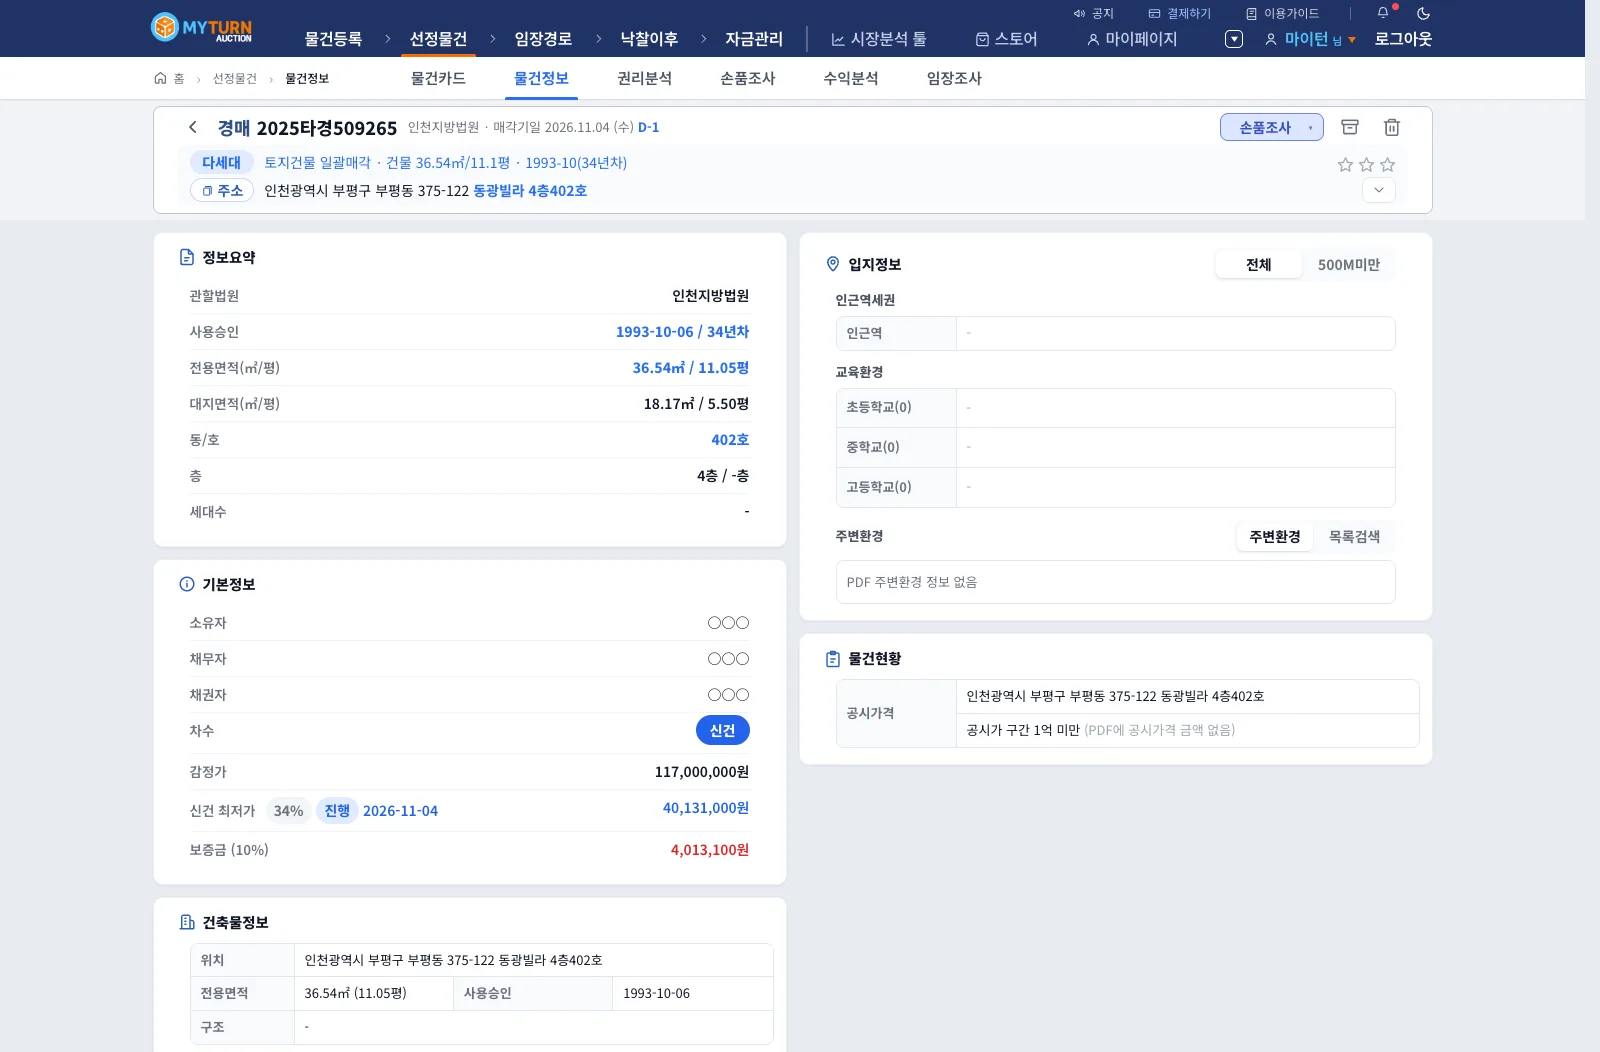
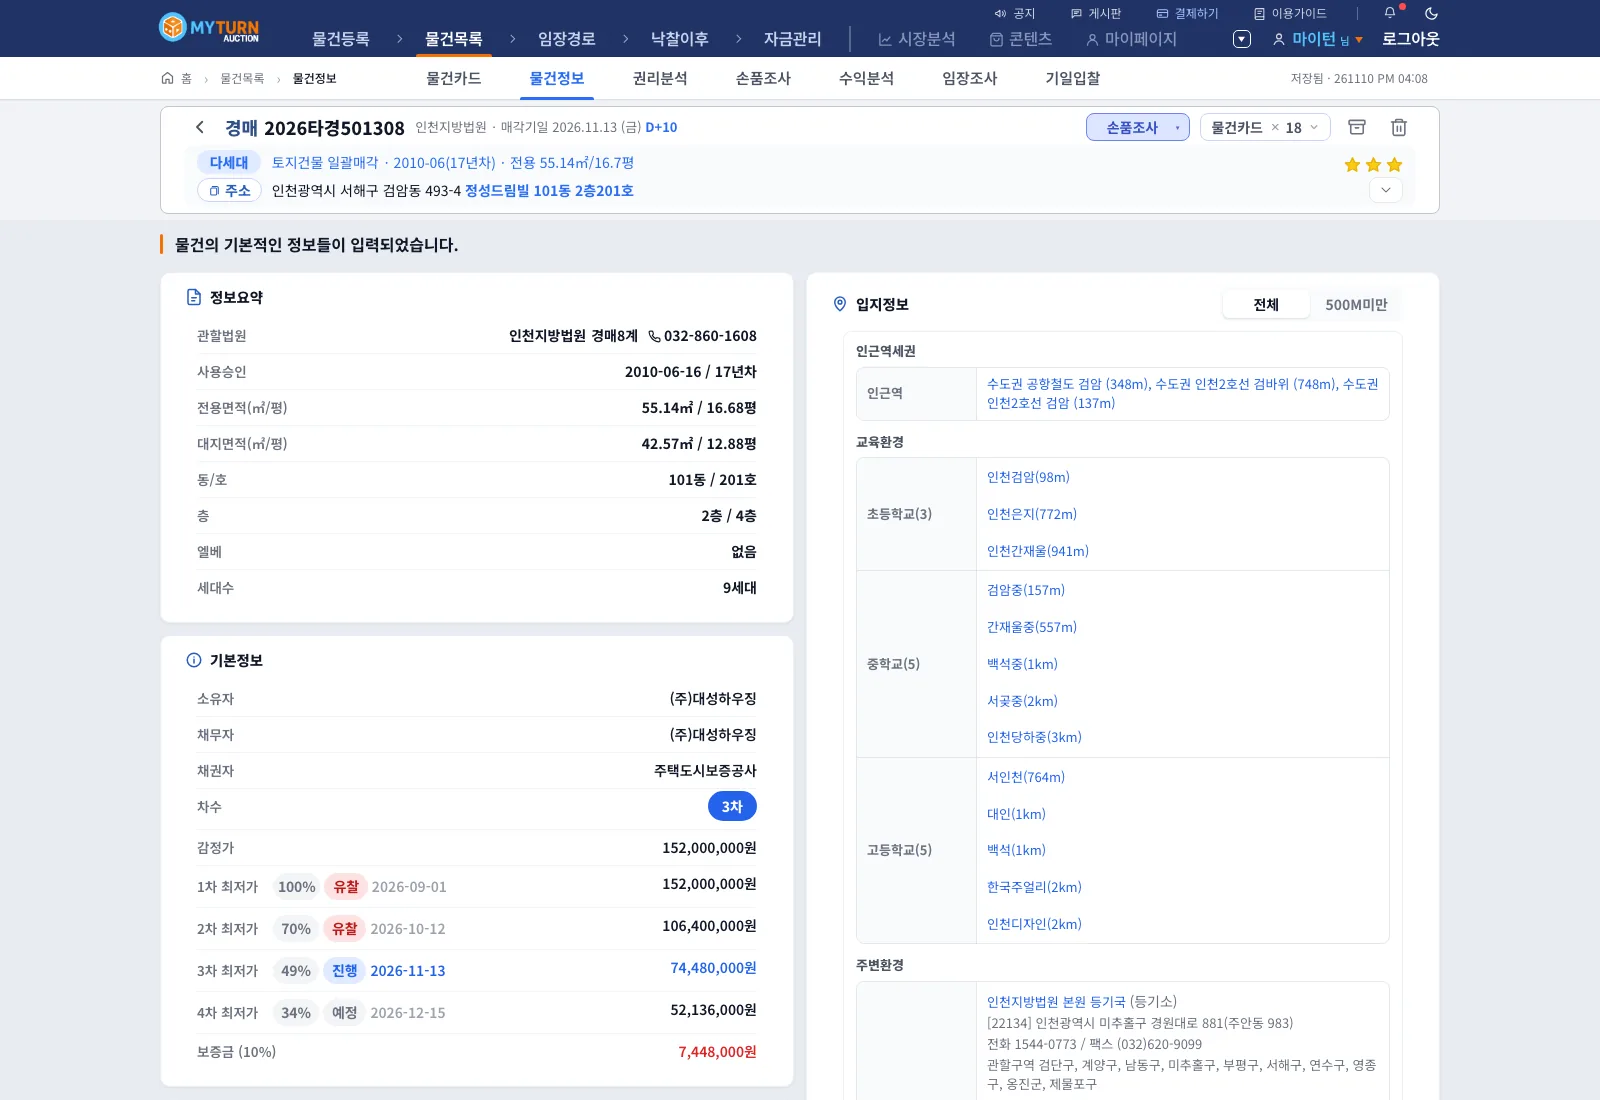
이용가이드 v1.8.1 페이지안내 화면 그림 — 화면 공통 구성 · 물건목록 · 물건정보 다시 찍고 손품조사 · 수익분석 · 임장조사 · 기일입찰 · 임장경로 · 낙찰이후(절차별체크) · 자금관리 · 시장분석 새로. 실계정 읽기만(쓰기 요청 막음), 운영 단추 · 칩 · 손품결론 가림, 기일입찰 이름 · 전화 · 주소와 임장경로 출발 · 도착지 ○○로 가림. 물건목록 · 물건정보 그림 위 번호는 배치가 바뀌어 뺌, 바로가기 설명에 게시판

diff --git a/public/guide/index.html b/public/guide/index.html
@@ -1672,6 +1672,36 @@ GUIDE.release({
     ] });
   },
 });
+/* v1.8.1 — 2026.11.23 페이지안내 화면 그림 — 화면 공통 구성 · 물건목록 · 물건정보는 오늘 화면으로 다시, 손품조사 · 수익분석 · 임장조사 · 기일입찰 · 임장경로 · 낙찰이후 · 자금관리 · 시장분석은 새로.
+   실계정(정성드림빌)을 읽기만 해서 찍음 — 운영 단추 · 운영 칩 · 손품결론은 가리고, 기일입찰 서류의 이름 · 전화 · 주소와 임장경로 출발 · 도착지는 ○○로 가림.
+   배치가 바뀌어 물건목록 · 물건정보의 그림 위 번호는 뺐다(설명 번호는 그대로) */
+GUIDE.release({
+  v: '1.8.1', date: '2026-11-23', base: '1.8.0', title: '페이지안내 화면 그림',
+  notes: ['페이지안내 — 화면 공통 구성 · 물건목록 · 물건정보 그림을 오늘 화면으로 바꾸고, 손품조사 · 수익분석 · 임장조사 · 기일입찰 · 임장경로 · 낙찰이후 · 자금관리 · 시장분석에 화면 그림을 넣었습니다'],
+  patch(c) {
+    const U = 'terryauction-6b374.web.app/web#/';
+    const add = (k, h, url, alt) => { c.shots[k] = { src: `shot-${k}.webp?v=4`, w: 1600, h, url: U + url, alt }; };
+    add('layout', 330, 'market/dong', '화면 공통 구성 — 남색 머리띠(상단 메뉴 · 바로가기 · 내 계정), 흰 띠(경로 · 하위 탭), 그 아래 박스 탭');
+    add('list', 1052, 'list', '물건목록 · 물건카드 화면 — 도구 줄, 단계별 물건 수, 물건 카드와 분석 진행 · 수익률 분석');
+    add('basic', 1100, 'item/…/basic', '물건상세 · 물건정보 화면 — 사건 카드, 정보요약, 기본정보, 입지정보');
+    add('survey', 1300, 'item/…/survey', '물건상세 · 손품조사 화면 — 매매수요 · 시세분석 탭, 실사용자 · 빌라 입지비교 지도');
+    add('profit', 1200, 'item/…/profit', '물건상세 · 수익분석 화면 — A~D안 고르기, 요약 네 칸, 입찰정보 · 비용 · 수익 · 개인소득세율');
+    add('field', 1200, 'item/…/field', '물건상세 · 임장조사 화면 — 현장사진, 현장조사(입지 · 개별성 · 탐문 · 입찰자 현황조사), 부동산 현장 상담');
+    add('bid', 1250, 'item/…/bid', '물건상세 · 기일입찰 화면 — 입찰유형, 요약 네 칸, 봉투에 넣을 서류 작성(왼쪽 내 서류 · 오른쪽 예시)');
+    add('trip', 1000, 'trip', '임장경로 화면 — 경로설정 · 동선최적화 · 경로제외물건과 지도 경로');
+    add('postwin', 1150, 'postwin/win', '낙찰이후 › 절차별체크 화면 — 낙찰당일부터 세금까지 단계별 할 일');
+    add('finance', 1050, 'finance/cashFlow', '자금관리 › 자금입출금 화면 — 총 입금 · 총 출금 · 잔액과 입출금 표');
+    add('market', 1150, 'market/dong', '시장분석 › 실거래분석 화면 — 지역 · 종류 · 기간 조회, 요약 지표, 거래 타임라인');
+    const subs = c.sections.find((s) => s.id === 'pages').subs;
+    const page = (aid) => subs.find((x) => x.aid === aid);
+    const shotOf = (aid) => (page(aid) || { blocks: [] }).blocks.find((b) => b.t === 'shot');
+    ['help-list', 'help-item-basic'].forEach((aid) => { const b = shotOf(aid); if (b) b.pins = []; });   /* 배치가 바뀌어 그림 위 번호 자리가 맞지 않는다 */
+    const lb = shotOf('help-layout');
+    if (lb) { delete lb.mock; const r = (lb.legend || []).find((x) => x[0] === '바로가기'); if (r) r[1] = r[1].replace('공지 · 결제하기', '공지 · 게시판 · 결제하기'); }
+    const bid = page('help-item-bid');
+    if (bid && !shotOf('help-item-bid')) bid.blocks.splice(1, 0, { t: 'shot', key: 'bid', pins: [] });
+  },
+});
 /* 다음 버전 예시 — 바뀐 곳만 patch 에서 고친다
 GUIDE.release({
   v: '1.1.0', date: '2026-12-01', base: '1.0.0', title: '앱 출시 반영',
